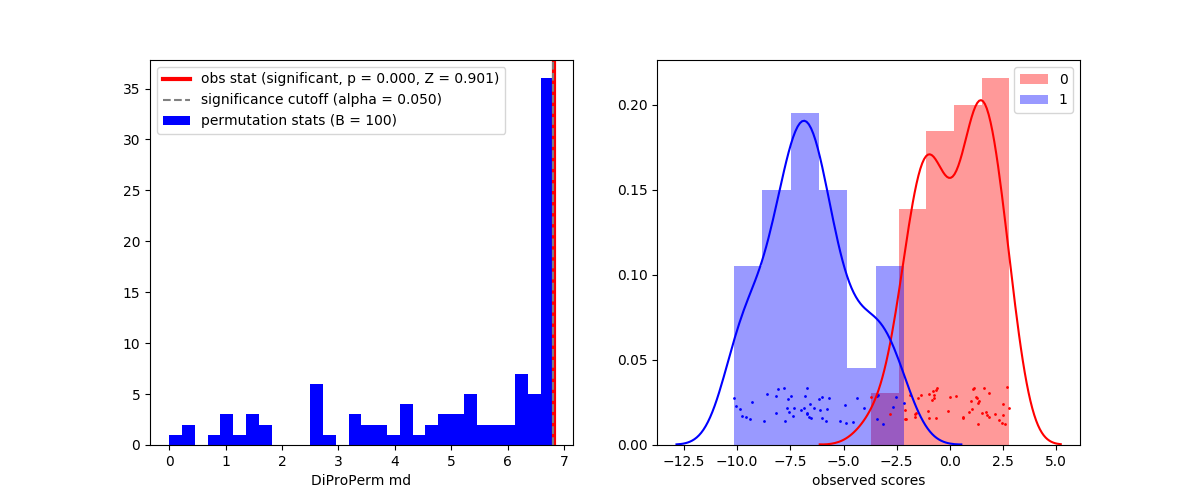
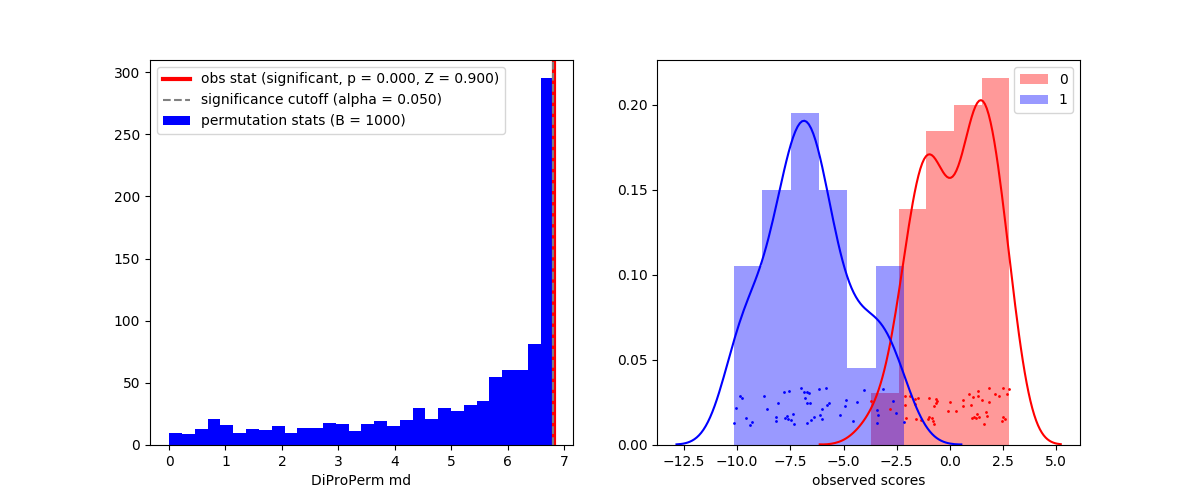
fig

diff --git a/doc/figures/make_readme_figures.py b/doc/figures/make_readme_figures.py
@@ -10,7 +10,7 @@ plt.scatter(X[:, 0], X[:, 1], c=y)
 plt.savefig('data.png')
 plt.close()
 
-dpp = DiProPerm().fit(X, y)
+dpp = DiProPerm(B=1000).fit(X, y)
 
 plt.figure(figsize=[12, 5])
 
